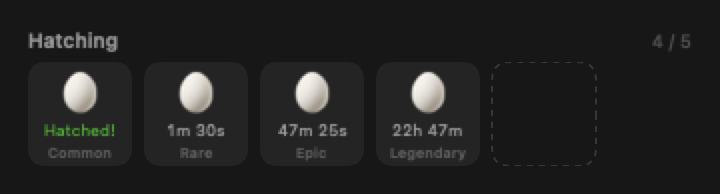
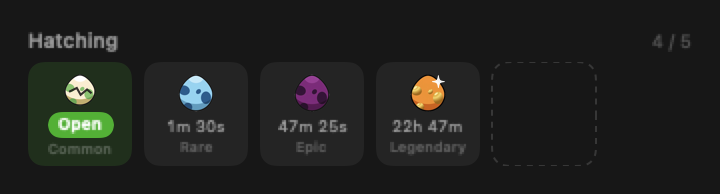
landing: show the hatch animation

diff --git a/index.html b/index.html
@@ -262,7 +262,7 @@
       <div class="step">
         <span class="n">04</span>
         <h3 data-i18n="s4.t">Hatch on real time</h3>
-        <p data-i18n="s4.d">30 minutes for a Common up to 24 hours for a Legendary — wall-clock time, counting down even while the app is closed, with a notification once it's ready. A ripe egg waits in its slot, cracked, until you tap Open — that's what actually hatches it. Species with a regional look have a 20% chance to hatch Alolan, Galarian, Hisuian or Paldean.</p>
+        <p data-i18n="s4.d">30 minutes for a Common up to 24 hours for a Legendary — wall-clock time, counting down even while the app is closed, with a notification once it's ready. A ripe egg waits in its slot, cracked, until you tap Open — then it rocks, bursts, and the Pokémon springs out of it. Species with a regional look have a 20% chance to hatch Alolan, Galarian, Hisuian or Paldean.</p>
       </div>
       <div class="step">
         <span class="n">05</span>
@@ -302,8 +302,8 @@
         <figcaption data-i18n="cap.shop">The Shop: egg draws with the odds on the button, incubator slots, EXP Candy and Shiny Candy, permanent Shiny and EXP Charms — plus Mega Stones and Max Mushrooms for 80 catalogued forms — evolution and form items are the shop's deliberate omission, since those come from your partner.</figcaption>
       </figure>
       <figure>
-        <div class="shot"><img src="assets/screenshot-eggs.png" alt="Eggs incubating with live countdowns"></div>
-        <figcaption data-i18n="cap.bag">Up to six eggs incubate side by side — each grade with its own shell colour and speckle count — every one on its own countdown. A notification tells you when it's ready, and it waits there, cracked, until you tap Open.</figcaption>
+        <div class="shot"><img src="assets/screenshot-hatch.gif" alt="A cracked Legendary egg rocking, bursting, and Rayquaza springing out"></div>
+        <figcaption data-i18n="cap.bag">Up to six eggs incubate side by side — each grade with its own shell colour and speckle count — every one on its own countdown. A notification tells you when it's ready, and it waits there, cracked, until you tap Open — then it rocks, bursts, and out comes what was inside.</figcaption>
       </figure>
     </div>
   </div>
@@ -431,7 +431,7 @@
       "s3.t": "Draw an egg",
       "s3.d": "Spend 10M tokens in the Shop for an egg of a randomly rolled grade — Common 60% / Rare 22% / Epic 15% / Legendary 3%. A short reveal plays first — one burst of colour per grade, from a single white flash up to four bursts ending in sparkling orange for a Legendary. Three incubate at once, six with a slot upgrade.",
       "s4.t": "Hatch on real time",
-      "s4.d": "30 minutes for a Common up to 24 hours for a Legendary — wall-clock time, counting down even while the app is closed, with a notification once it's ready. A ripe egg waits in its slot, cracked, until you tap Open — that's what actually hatches it. Species with a regional look have a 20% chance to hatch Alolan, Galarian, Hisuian or Paldean.",
+      "s4.d": "30 minutes for a Common up to 24 hours for a Legendary — wall-clock time, counting down even while the app is closed, with a notification once it's ready. A ripe egg waits in its slot, cracked, until you tap Open — then it rocks, bursts, and the Pokémon springs out of it. Species with a regional look have a 20% chance to hatch Alolan, Galarian, Hisuian or Paldean.",
       "s5.t": "Evolve by hand",
       "s5.d": "Feed a hatchling experience by coding, or with EXP Candy, then tap it to evolve once it's ready. Branching lines let you pick the path — and a Galarian Meowth becomes Perrserker where a Kantonian one becomes Persian. Experience alone isn't always enough: 56 branches want a stone, 25 want the item a trade would have held. None of it is for sale — a partner wearing a Ribbon brings back the item it needs, and items are never spent, so the first Fire Stone serves every Vulpix after it.",
       "s6.t": "Fill a Dex and a Box",
@@ -442,7 +442,7 @@
       "cap.dex": "The National Dex runs #1 to #1025 — a silhouette until you have hatched one.",
       "cap.detail": "Open any Pokémon for its grade, nature, the tokens you have spent together, and everything you can do with it.",
       "cap.shop": "The Shop: egg draws with the odds on the button, incubator slots, EXP Candy and Shiny Candy, permanent Shiny, EXP, and Fortune Charms — plus Mega Stones and Max Mushrooms for 80 catalogued forms — evolution and form items are the shop's deliberate omission, since those come from your partner.",
-      "cap.bag": "Up to six eggs incubate side by side — each grade with its own shell colour and speckle count — every one on its own countdown. A notification tells you when it's ready, and it waits there, cracked, until you tap Open.",
+      "cap.bag": "Up to six eggs incubate side by side — each grade with its own shell colour and speckle count — every one on its own countdown. A notification tells you when it's ready, and it waits there, cracked, until you tap Open — then it rocks, bursts, and out comes what was inside.",
 
       "tr.eyebrow": "Underneath",
       "tr.h2": "A usage tracker you'll actually open",
@@ -491,7 +491,7 @@
       "s3.t": "알 뽑기",
       "s3.d": "상점에서 재화 1천만을 써서 알을 뽑아요. 등급은 무작위 — 커먼 60% / 레어 22% / 에픽 15% / 레전더리 3%. 뽑는 순간 짧은 연출이 먼저 재생돼요 — 등급마다 색이 한 번씩 더 터지는데, 흰색 한 번뿐인 커먼부터 반짝이는 주황색까지 네 번 터지는 레전더리까지요. 동시에 3개, 슬롯을 확장하면 6개까지 부화기에 들어갑니다.",
       "s4.t": "실시간으로 부화",
-      "s4.d": "커먼 30분부터 레전더리 24시간까지, 앱을 꺼 둬도 흘러가는 실제 시계 기준이고 준비되면 알림이 한 번 옵니다. 익은 알은 슬롯에 금이 간 채로 기다리고, 확인을 눌러야 비로소 부화합니다. 리전 폼이 있는 종은 20% 확률로 알로라·가라르·히스이·팔데아 모습으로 부화해요.",
+      "s4.d": "커먼 30분부터 레전더리 24시간까지, 앱을 꺼 둬도 흘러가는 실제 시계 기준이고 준비되면 알림이 한 번 옵니다. 익은 알은 슬롯에 금이 간 채로 기다리고, 확인을 누르면 알이 흔들리다 터지고 그 자리에서 포켓몬이 나옵니다. 리전 폼이 있는 종은 20% 확률로 알로라·가라르·히스이·팔데아 모습으로 부화해요.",
       "s5.t": "직접 진화시키기",
       "s5.d": "코딩으로, 또는 경험치 사탕으로 경험치를 먹인 뒤 준비가 되면 탭해서 진화시키세요. 분기 진화는 경로를 직접 고를 수 있고, 가라르 나옹은 나이킹으로 — 관동 나옹은 페르시온으로 갑니다. 경험치만으로는 안 되는 경우도 있어요: 56개 갈래는 돌을, 25종은 통신교환에 지녀야 할 물건을 요구합니다. 어느 것도 팔지 않아요 — 리본을 단 파트너가 필요한 것을 물어 오고, 도구는 없어지지 않아 처음 얻은 불꽃의돌이 이후 모든 식스테일에게 쓰입니다.",
       "s6.t": "도감과 박스 채우기",
@@ -502,7 +502,7 @@
       "cap.dex": "전국도감은 1번부터 1025번까지 — 한 번 부화시키기 전까지는 실루엣으로 남습니다.",
       "cap.detail": "포켓몬을 열면 등급·성격·함께 쓴 토큰과 그 아이에게 할 수 있는 일이 전부 있습니다.",
       "cap.shop": "상점: 확률이 버튼에 적힌 알 뽑기, 부화 슬롯, 경험치 사탕과 반짝이는 사탕, 이로치 부적·경험치 부적·행운의 부적 — 그리고 80종 폼을 위한 메가스톤과 다이버섯. 진화 도구와 폼 도구는 일부러 안 팝니다 — 그건 파트너가 물어 와요.",
-      "cap.bag": "최대 6개의 알이 나란히 놓이고, 등급마다 껍질 색과 무늬 수가 달라 한눈에 구분돼요. 각자의 카운트다운이 흐르다 준비되면 알림으로 알려주고, 슬롯에 금이 간 채로 기다리다 확인을 눌러야 부화합니다.",
+      "cap.bag": "최대 6개의 알이 나란히 놓이고, 등급마다 껍질 색과 무늬 수가 달라 한눈에 구분돼요. 각자의 카운트다운이 흐르다 준비되면 알림으로 알려주고, 슬롯에 금이 간 채로 기다리다 확인을 누르면 알이 흔들리다 터지며 안에 있던 것이 나옵니다.",
 
       "tr.eyebrow": "그 아래엔",
       "tr.h2": "정말로 열어보게 되는 사용량 트래커",
@@ -551,7 +551,7 @@
       "s3.t": "タマゴを引く",
       "s3.d": "ショップで通貨1000万を使ってタマゴを引きます。グレードはランダム — コモン60% / レア22% / エピック15% / レジェンダリー3%。引いた瞬間、短い演出がまず流れます — グレードごとに色の炸裂が一段ずつ増え、白い一閃だけのコモンから、きらめくオレンジまで四段のレジェンダリーまで。同時に3個、スロットを拡張すれば6個まで孵化器に入ります。",
       "s4.t": "実時間で孵化",
-      "s4.d": "コモンは30分、レジェンダリーは24時間。アプリを閉じていても進む実時間のカウントダウンで、準備ができると通知が一度届きます。熟したタマゴはヒビが入ったままスロットで待っていて、かくにんをタップしてはじめて孵ります。リージョンフォルムを持つ種は20%の確率でアローラ・ガラル・ヒスイ・パルデアの姿で孵ります。",
+      "s4.d": "コモンは30分、レジェンダリーは24時間。アプリを閉じていても進む実時間のカウントダウンで、準備ができると通知が一度届きます。熟したタマゴはヒビが入ったままスロットで待っていて、かくにんをタップするとゆれて割れ、その場からポケモンが飛び出します。リージョンフォルムを持つ種は20%の確率でアローラ・ガラル・ヒスイ・パルデアの姿で孵ります。",
       "s5.t": "自分の手で進化させる",
       "s5.d": "コーディングで、あるいはけいけんちアメで経験値を与え、準備ができたらタップして進化。分岐進化はルートを選べます — ガラルのニャースはニャイキングに、カントーのニャースはペルシアンに。経験値だけでは足りないこともあります: 56の分岐は石を、25種は通信交換で持たせる道具を要求します。どれも売っていません — リボンをつけたパートナーが必要なものをもってきて、道具はなくならないので、最初のほのおのいしがその後すべてのロコンに使えます。",
       "s6.t": "図鑑とボックスを埋める",
@@ -562,7 +562,7 @@
       "cap.dex": "全国図鑑は1番から1025番まで — 一度ふ化させるまではシルエットのままです。",
       "cap.detail": "ポケモンを開くと、ランク・せいかく・一緒に使ったトークンと、できることがすべて並びます。",
       "cap.shop": "ショップ：確率がボタンに書かれたタマゴ引き、ふ化スロット、けいけんちアメとひかるアメ、ひかるおまもり・けいけんちおまもり・こううんのおまもり — さらに80種のフォルムのためのメガストーンとダイマックスウキノコ。進化の道具とフォルムの道具は意図的に売っていません — それはパートナーがもってきます。",
-      "cap.bag": "最大6個のタマゴが並び、グレードごとに殻の色と斑点の数が違うので一目で見分けられます。それぞれのカウントダウンが進み、準備ができると通知でお知らせ — ヒビが入ったままスロットで待ち、かくにんをタップしてはじめて孵化します。",
+      "cap.bag": "最大6個のタマゴが並び、グレードごとに殻の色と斑点の数が違うので一目で見分けられます。それぞれのカウントダウンが進み、準備ができると通知でお知らせ — ヒビが入ったままスロットで待ち、かくにんをタップするとゆれて割れ、中にいたものが出てきます。",
 
       "tr.eyebrow": "その下では",
       "tr.h2": "実際に開きたくなる使用量トラッカー",
